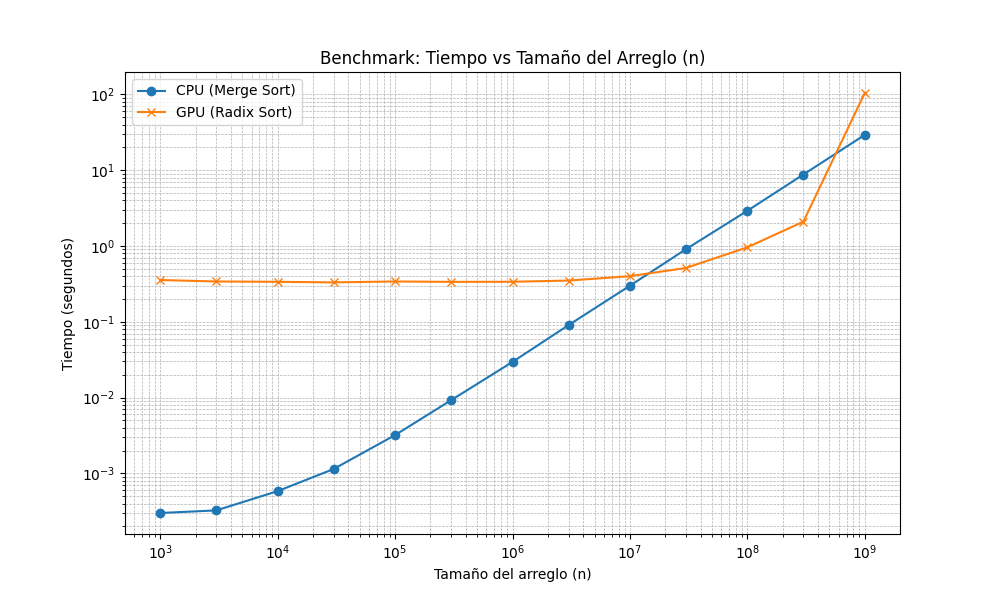
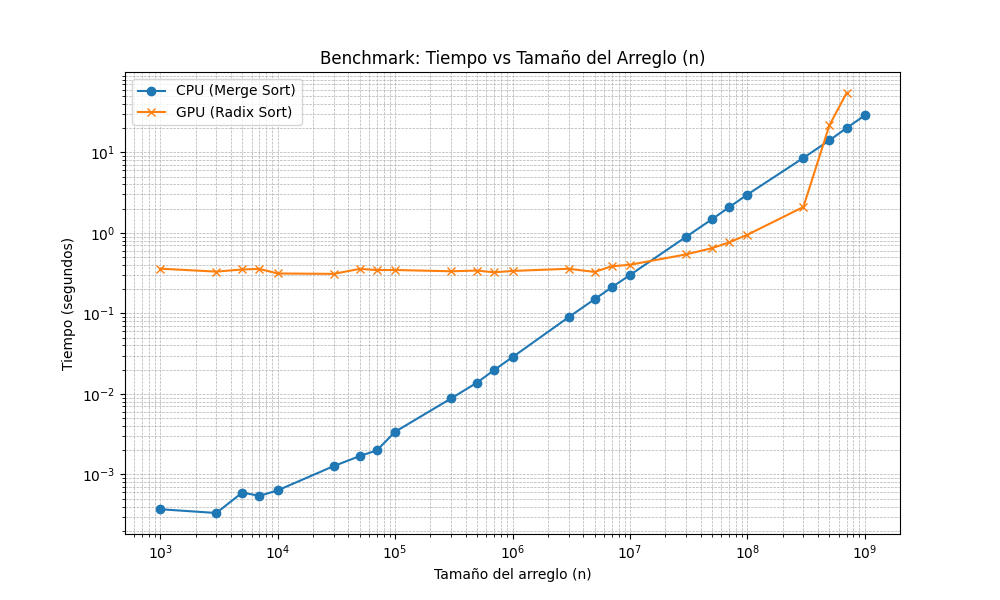
aumento de experimentos para n

Changed region(s): [[0.062, 0.12, 0.899, 0.87], [0.093, 0.15, 0.124, 0.18]]

diff --git a/src/benchmark_a.py b/src/benchmark_a.py
@@ -15,7 +15,15 @@ df_avg = df.groupby(["n", "mode", "threads_or_gridsize"])["time"].mean().reset_i
 
 
 # valores de la entrada n
-n_values = [1000, 3000, 10000, 30000, 100000, 300000, 1000000, 3000000, 10000000, 30000000, 100000000, 300000000, 1000000000]
+n_values = [
+    1000, 3000, 5000, 7000, 10000,
+    30000, 50000, 70000, 100000,
+    300000, 500000, 700000, 1000000,
+    3000000, 5000000, 7000000, 10000000,
+    30000000, 50000000, 70000000, 100000000,
+    300000000, 500000000, 700000000
+]
+
 
 # diccionario para almacenar los resultados filtrados por cada valor de n
 gpu_data_filtered = {}
